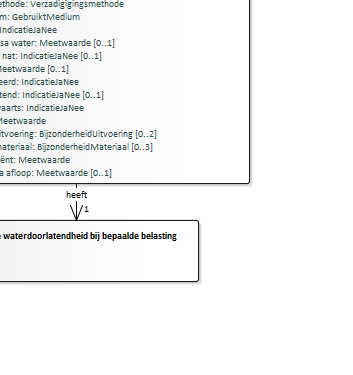
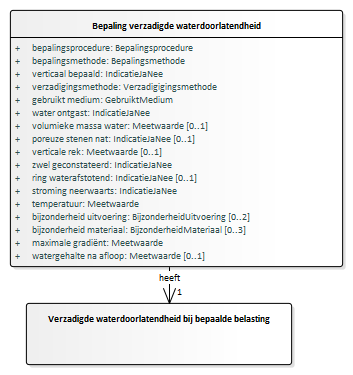
Conceptualmodel-GeologischbooronderzoekBHR-G-0.99-3-20200518-20200723-144604

Changed region(s): [[0.0, 0.0, 0.9972, 0.9973]]

diff --git a/data/BHR-G-cat.msword.html b/data/BHR-G-cat.msword.html
@@ -15,7 +15,7 @@
    <body>
       <p>Conceptual model/Geologisch booronderzoek (BHR-G)/20200518</p>
       <p>Imvertor: 1.61.2</p>
-      <p>Model release: Conceptualmodel-GeologischbooronderzoekBHR-G-0.99-3-20200518-20200723-144043</p>
+      <p>Model release: Conceptualmodel-GeologischbooronderzoekBHR-G-0.99-3-20200518-20200723-144604</p>
       <hr>
       <section>
          <h1>Artikel 1 Definitie van registratieobject, entiteiten en attributen</h1>
@@ -22033,7 +22033,7 @@
                      </section>
                </section><a class="anchor" id="graph_EAID_50BE72F9_FDC3_4388_953D_7FD69937DC06"></a><a class="anchor" id="global_class_Model_Bepalingverzadigdewaterdoorlatendheid"></a><section id="global_class_Model_Bepalingverzadigdewaterdoorlatendheid">
                   <h3>   Bepaling verzadigde waterdoorlatendheid</h3>
-                  <div class="imageinfo "><img src="Images/EAID_495B4020_9C45_4c2c_AE2B_8D1579968637.png" usemap="#imagemap-EAID_495B4020_9C45_4c2c_AE2B_8D1579968637" alt="Diagram "><map name="imagemap-EAID_495B4020_9C45_4c2c_AE2B_8D1579968637"><area shape="rect" alt="Verzadigde waterdoorlatendheid bij bepaalde belasting" coords="-67,220,199,282" href="#graph_EAID_F9866C6B_4CD5_4908_8DB3_76E55D0E5204"><area shape="rect" alt="Bepaling verzadigde waterdoorlatendheid" coords="-83,-73,250,184" href="#graph_EAID_50BE72F9_FDC3_4388_953D_7FD69937DC06"></map><p><b></b></p>
+                  <div class="imageinfo "><img src="Images/EAID_495B4020_9C45_4c2c_AE2B_8D1579968637.png" usemap="#imagemap-EAID_495B4020_9C45_4c2c_AE2B_8D1579968637" alt="Diagram "><map name="imagemap-EAID_495B4020_9C45_4c2c_AE2B_8D1579968637"><area shape="rect" alt="Verzadigde waterdoorlatendheid bij bepaalde belasting" coords="26,303,292,365" href="#graph_EAID_F9866C6B_4CD5_4908_8DB3_76E55D0E5204"><area shape="rect" alt="Bepaling verzadigde waterdoorlatendheid" coords="10,10,343,267" href="#graph_EAID_50BE72F9_FDC3_4388_953D_7FD69937DC06"></map><p><b></b></p>
                   </div>
                   <table style="width: 100%;">
                      <colgroup style="width: 30%;"></colgroup>
@@ -22643,7 +22643,7 @@
                               <td>
                                  
                                  <p>Het attribuut moet aanwezig zijn wanneer de waarde van het attribuut <em>bepalingsmethode</em> gelijk is aan <em>fallingHead</em>.<br clear="none">
-                                    Het attribuut mag niet aanwezig zijn in alle andere gevallen. </p>
+                                    </p>
                                  </td>
                            </tr>
                            <tr>
@@ -23189,7 +23189,7 @@
                            </tr>
                            <tr>
                               <th>&nbsp;&nbsp;Eenheid</th>
-                              <td>m/dag</td>
+                              <td>m/d (meter per 24 uur)</td>
                            </tr>
                            <tr>
                               <th>&nbsp;&nbsp;Waardebereik</th>
